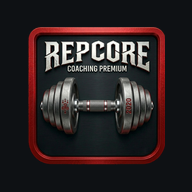
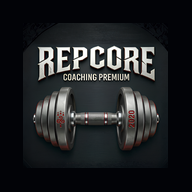
fix(pwa): icones launcher regenerees depuis l'illustration originale
- Source correcte : l'image REPCORE fond plein cadre (sans bordure
  arrondie), fournie par Kevin - remplace la generation precedente
- Logo a 88% (any) / 76% (maskable) centre sur fond assorti :
  lettres et haltere jamais rognes par le masque Android
- Bump cache SW v298

diff --git a/sw.js b/sw.js
@@ -1,4 +1,4 @@
-const CACHE = 'repcore-v297';
+const CACHE = 'repcore-v298';
 const SW_DATA = 'repcore-sw-data'; // persistent across updates — not wiped by activate
 const ASSETS = ['./manifest.json', './icons/icon-192x192.png', './icons/icon-512x512.png', './icons/logo.png', './data/ciqual.json'];
 
